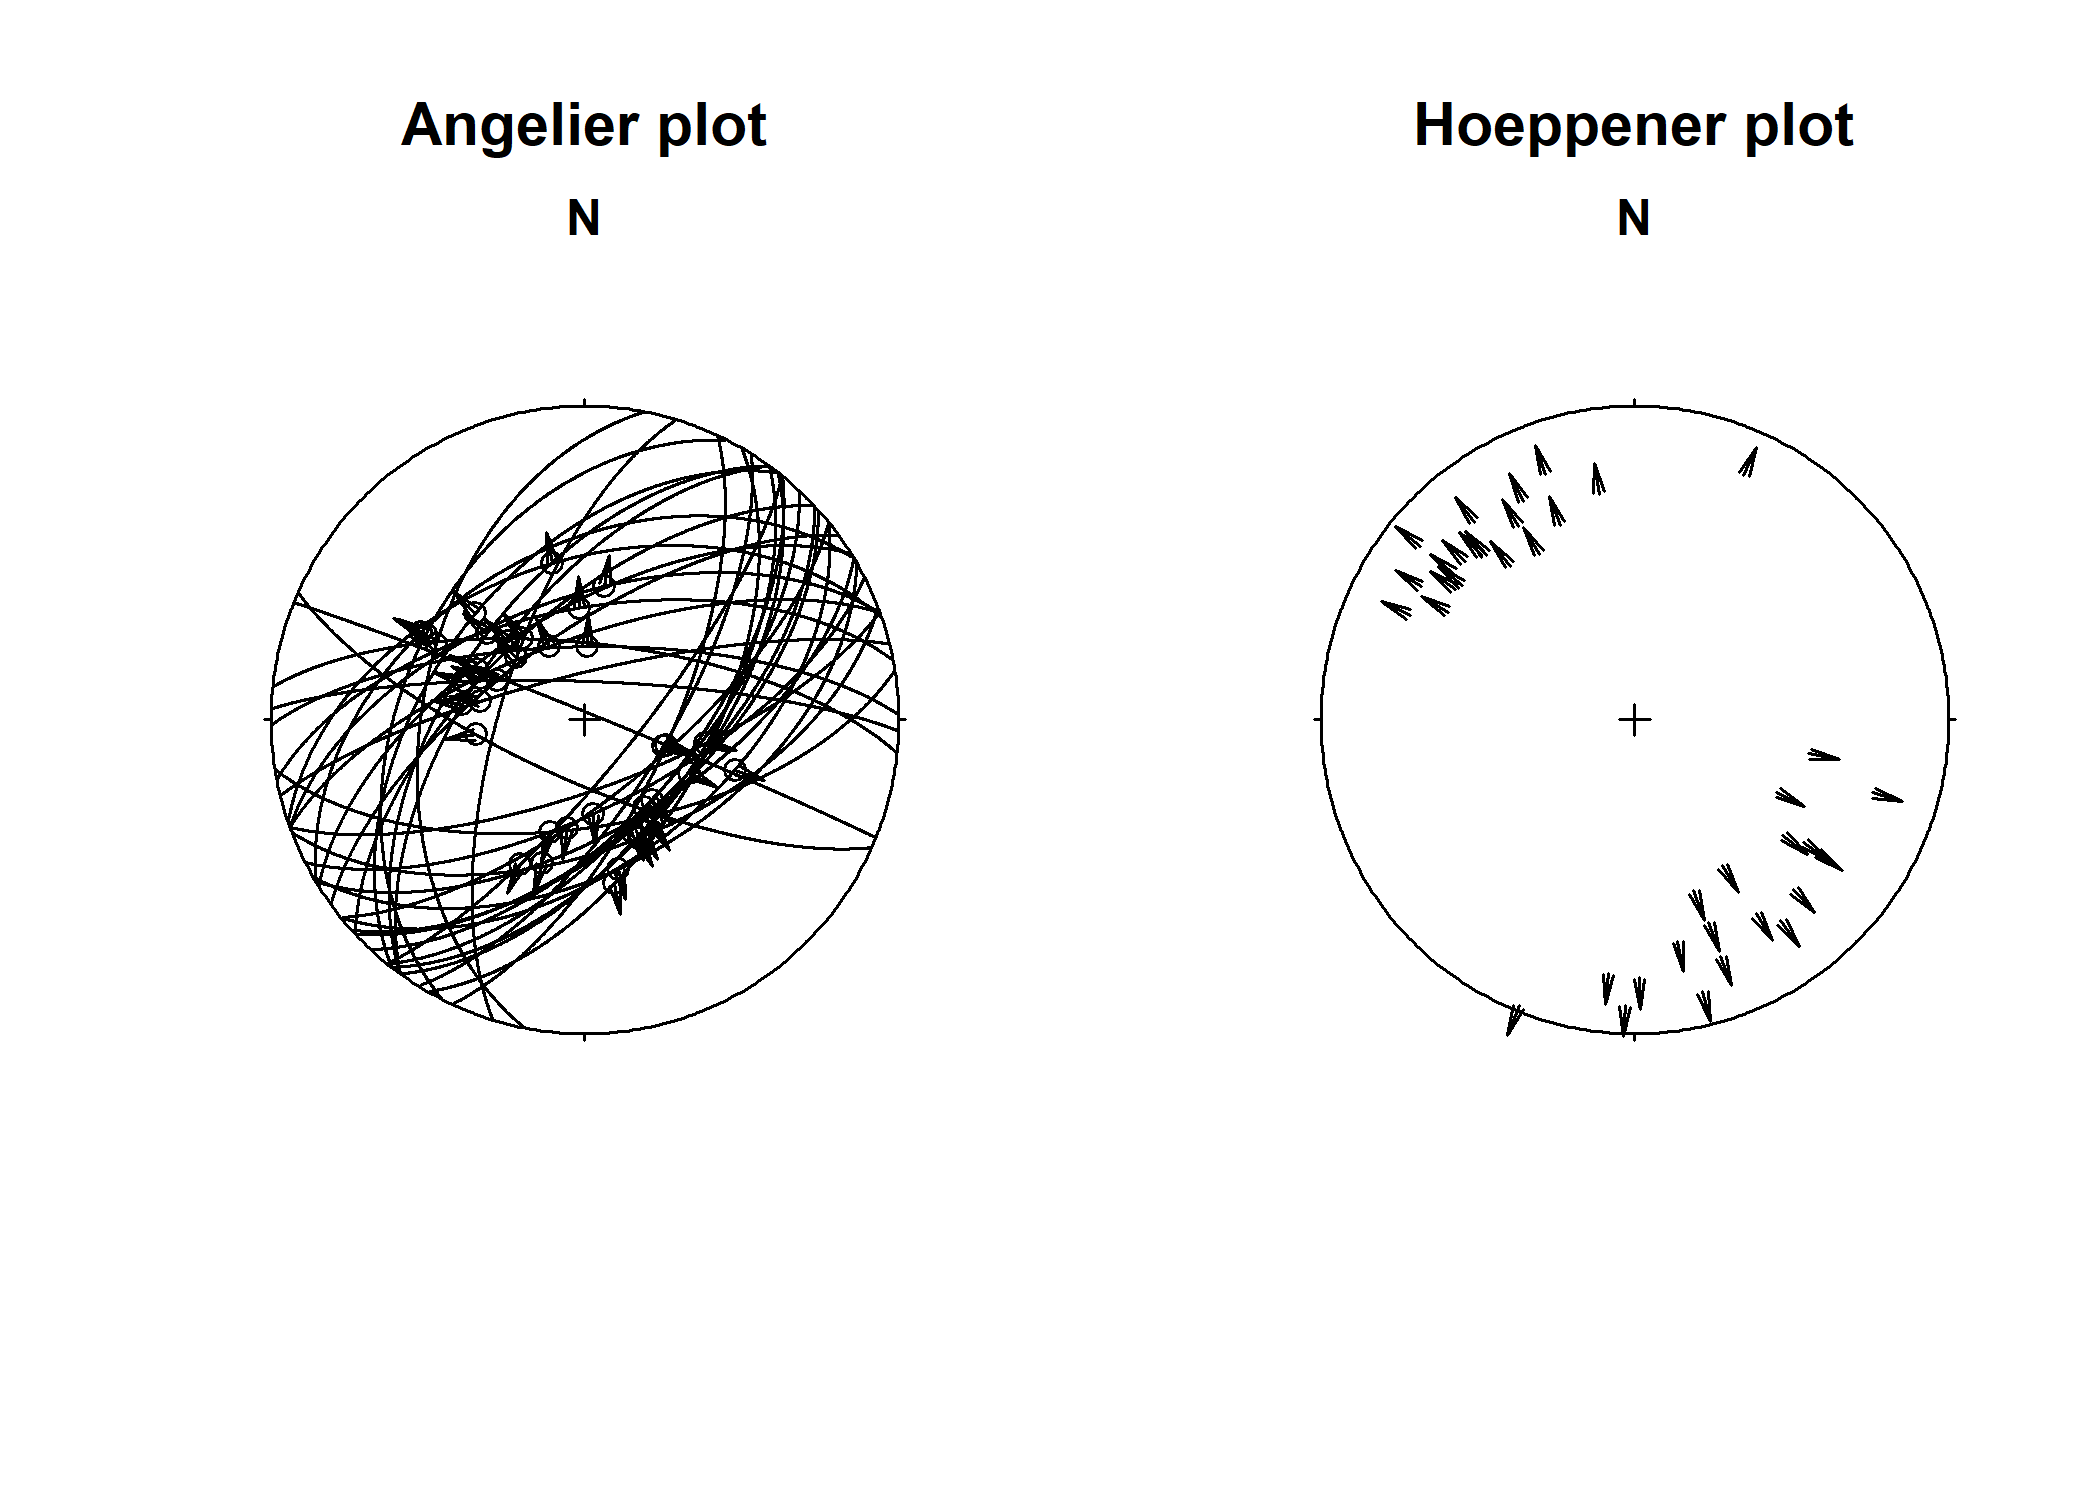
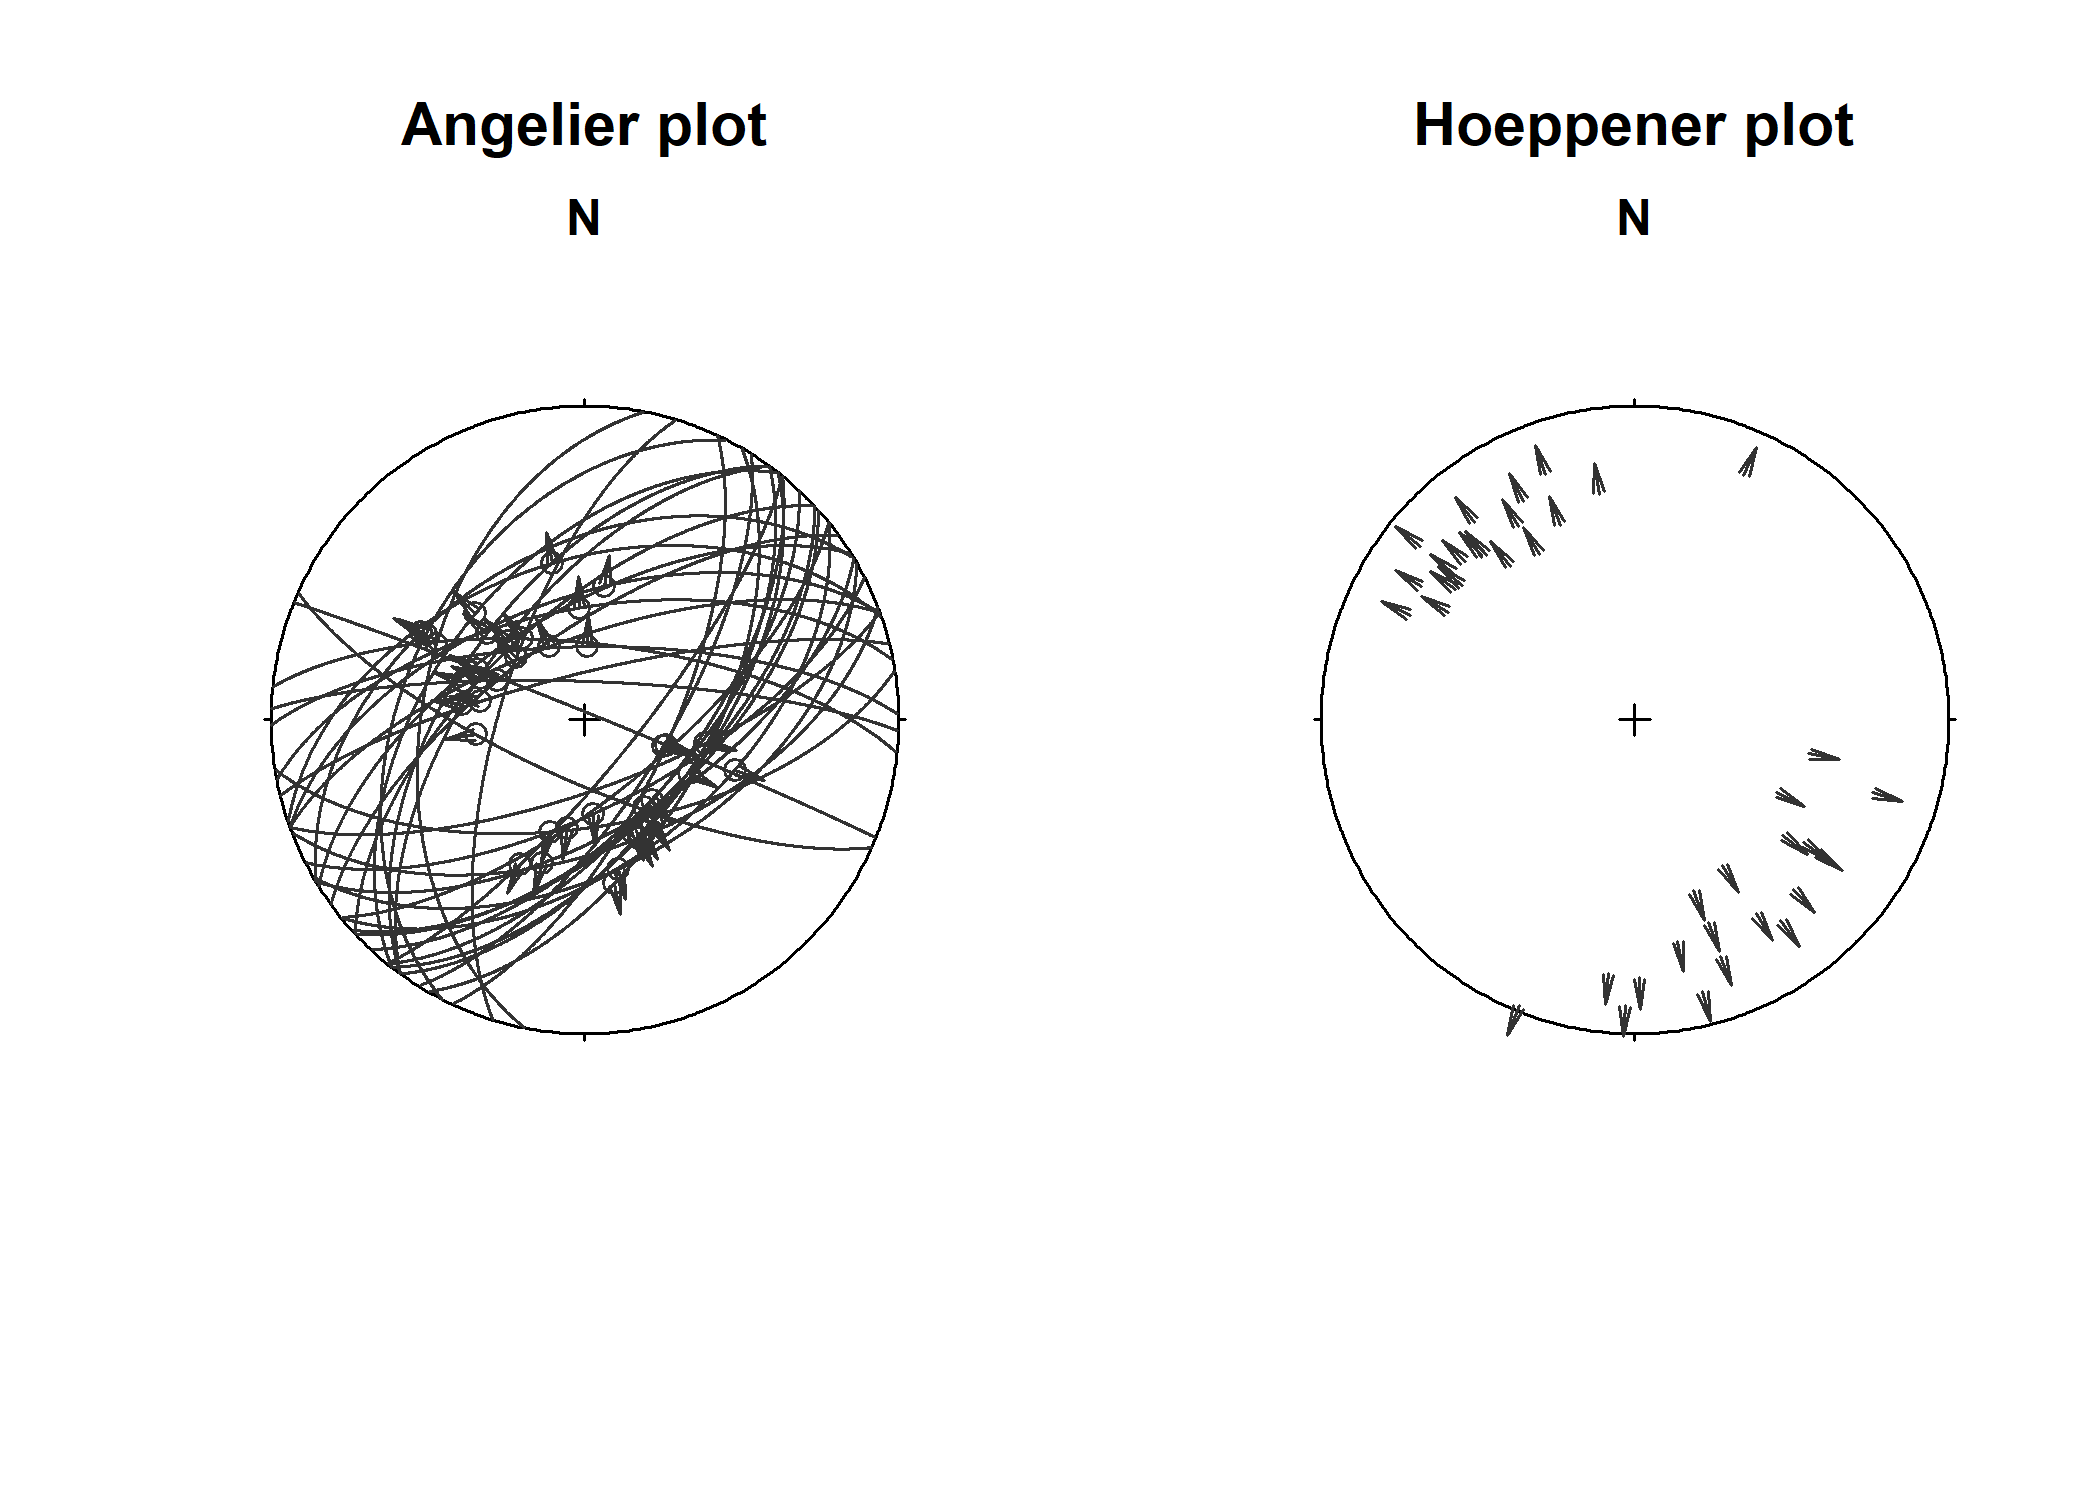
bug fixes

diff --git a/README.md b/README.md
@@ -256,10 +256,10 @@ faults <- angelier1990$TYM
 
 par(mfrow = c(1, 2))
 stereoplot(title = "Angelier plot", guides = FALSE)
-angelier(faults)
+angelier(faults, col = 'grey20')
 
 stereoplot(title = "Hoeppener plot", guides = FALSE)
-hoeppener(faults, points = FALSE)
+hoeppener(faults, points = FALSE, col = 'grey20')
 ```
 
 <img src="man/figures/README-stereo_faults-1.png" width="100%" />
